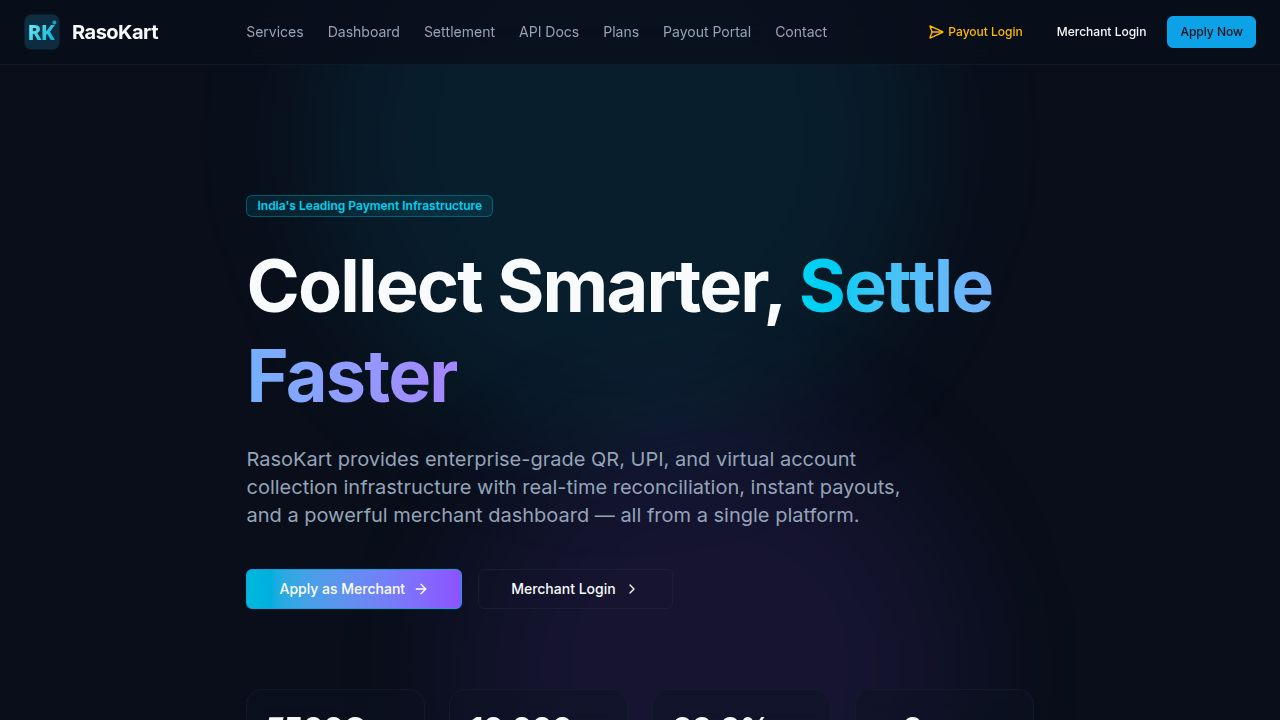
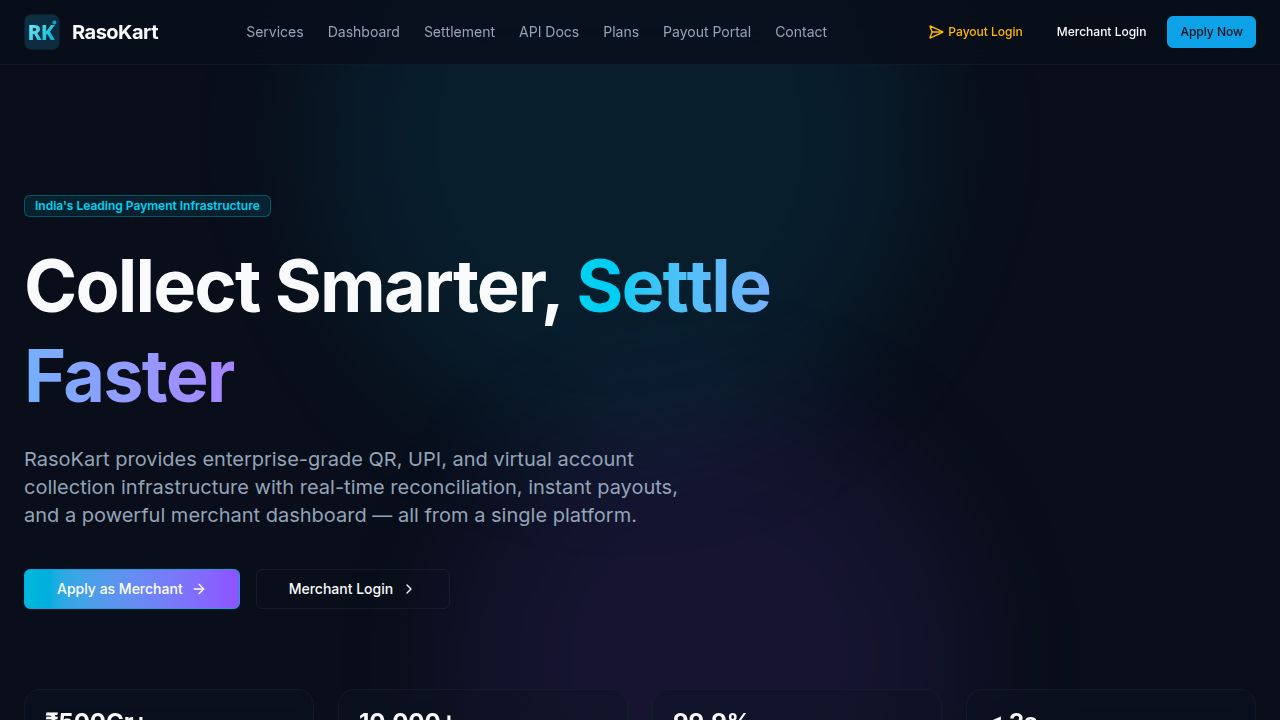
Add Min Amount, Max Amount, and Daily Limit inputs to the EkQR config panel
Task: Show EkQR and UPI Gateway amount limits on their config panels

## Changes

### artifacts/rpay/src/pages/admin/payment-gateways.tsx (EkqrConfigPanel)
- Added three new state variables: `ekqrMinAmount`, `ekqrMaxAmount`, `ekqrDailyLimit`
- Updated `unchanged` check to include the three new fields
- Updated `handleSave` to include minAmount/maxAmount/dailyLimit in the PUT body (as numbers)
- Updated the `onSuccess` reset to clear the three new fields
- Fixed success toast from generic "UPI Gateway settings saved" to "EkQR settings saved"
- Updated the Cancel button to also clear the three new fields
- Added an "Amount Limits" section with a 3-column grid (Min, Max, Daily Limit) between
  the Webhook Secret and Test Result sections — showing current configured value as placeholder

## No backend changes needed
- PUT /api/system-config/ekqr already accepts minAmount/maxAmount/dailyLimit
- GET /api/system-config/ekqr already returns all three fields
- Credential history dialog: SETTING_LABELS already covers these keys

## UPI Gateway panel — already implemented
- UpigatewayPayinPanel in the same file already had Min Amount and Max Amount inputs
  in the Advanced Settings section, wired to PUT — confirmed, no changes needed

Replit-Task-Id: f8b6f8dd-bf2f-4e77-bede-1b2366a91e36

## TypeScript typecheck: passes with zero errors

diff --git a/artifacts/rpay/src/pages/admin/payment-gateways.tsx b/artifacts/rpay/src/pages/admin/payment-gateways.tsx
@@ -326,6 +326,9 @@ function EkqrConfigPanel() {
   const [ekqrEnabled, setEkqrEnabled] = useState<boolean | null>(null);
   const [ekqrEnv, setEkqrEnv] = useState<"test" | "live" | null>(null);
   const [ekqrWebhookSecret, setEkqrWebhookSecret] = useState("");
+  const [ekqrMinAmount, setEkqrMinAmount] = useState("");
+  const [ekqrMaxAmount, setEkqrMaxAmount] = useState("");
+  const [ekqrDailyLimit, setEkqrDailyLimit] = useState("");
   const [showKey, setShowKey] = useState(false);
   const [showSecret, setShowSecret] = useState(false);
   const [testResult, setTestResult] = useState<{ ok: boolean; msg: string } | null>(null);
@@ -334,7 +337,8 @@ function EkqrConfigPanel() {
   const currentEnabled = ekqrEnabled !== null ? ekqrEnabled : (ekqrConfig?.enabled ?? false);
   const currentEnv: "test" | "live" = ekqrEnv !== null ? ekqrEnv : ((ekqrConfig as any)?.env ?? "test");
   const unchanged = ekqrApiKey === "" && ekqrWebhookSecret === ""
-    && ekqrEnabled === null && ekqrEnv === null;
+    && ekqrEnabled === null && ekqrEnv === null
+    && ekqrMinAmount === "" && ekqrMaxAmount === "" && ekqrDailyLimit === "";
 
   const { guardSave, dialog: disableGuardDialog } = useDisableGatewayGuard("ekqr", undefined, {
     apiKeySet: ekqrConfig?.apiKeySet,
@@ -344,9 +348,10 @@ function EkqrConfigPanel() {
   const { mutate: saveConfig, isPending: saving } = useUpdateEkqrConfig({
     mutation: {
       onSuccess: () => {
-        toast.success("UPI Gateway settings saved");
+        toast.success("EkQR settings saved");
         setEkqrApiKey(""); setEkqrWebhookSecret("");
         setEkqrEnabled(null); setEkqrEnv(null);
+        setEkqrMinAmount(""); setEkqrMaxAmount(""); setEkqrDailyLimit("");
         qc.invalidateQueries({ queryKey: getGetEkqrConfigQueryKey() });
       },
       onError: (err: Error) => toast.error(err.message),
@@ -383,6 +388,9 @@ function EkqrConfigPanel() {
     const body: Record<string, unknown> = { enabled: currentEnabled, env: currentEnv };
     if (ekqrApiKey.trim()) body.apiKey = ekqrApiKey.trim();
     if (ekqrWebhookSecret !== "") body.webhookSecret = ekqrWebhookSecret.trim();
+    if (ekqrMinAmount.trim()) body.minAmount = parseFloat(ekqrMinAmount);
+    if (ekqrMaxAmount.trim()) body.maxAmount = parseFloat(ekqrMaxAmount);
+    if (ekqrDailyLimit.trim()) body.dailyLimit = parseFloat(ekqrDailyLimit);
     const willDisable = computeWillDisable(ekqrConfig?.enabled ?? false, currentEnabled);
     guardSave(willDisable, () => saveConfig({ data: body as any }));
   }
@@ -532,6 +540,50 @@ function EkqrConfigPanel() {
         )}
       </div>
 
+      {/* Amount Limits */}
+      <div className="rounded-lg border border-border/40 overflow-hidden">
+        <div className="p-3 bg-muted/10">
+          <p className="text-xs font-medium text-muted-foreground uppercase tracking-wide">Amount Limits</p>
+        </div>
+        <div className="p-4 space-y-4">
+          <div className="grid grid-cols-1 sm:grid-cols-3 gap-4">
+            <div className="space-y-1.5">
+              <Label className="text-xs">Min Amount (₹)</Label>
+              <Input
+                type="number"
+                className="h-9 text-xs"
+                placeholder={String((ekqrConfig as any)?.minAmount ?? 1)}
+                value={ekqrMinAmount}
+                onChange={e => setEkqrMinAmount(e.target.value)}
+              />
+            </div>
+            <div className="space-y-1.5">
+              <Label className="text-xs">Max Amount (₹)</Label>
+              <Input
+                type="number"
+                className="h-9 text-xs"
+                placeholder={String((ekqrConfig as any)?.maxAmount ?? 200000)}
+                value={ekqrMaxAmount}
+                onChange={e => setEkqrMaxAmount(e.target.value)}
+              />
+            </div>
+            <div className="space-y-1.5">
+              <Label className="text-xs">Daily Limit (₹)</Label>
+              <Input
+                type="number"
+                className="h-9 text-xs"
+                placeholder={String((ekqrConfig as any)?.dailyLimit ?? 1000000)}
+                value={ekqrDailyLimit}
+                onChange={e => setEkqrDailyLimit(e.target.value)}
+              />
+            </div>
+          </div>
+          <p className="text-xs text-muted-foreground">
+            Controls the minimum and maximum transaction amounts and the total daily collection cap for this gateway.
+          </p>
+        </div>
+      </div>
+
       {/* Test result banners */}
       {testResult && (
         <div className={`flex items-center gap-2 text-xs px-3 py-2 rounded-md border ${
@@ -572,6 +624,7 @@ function EkqrConfigPanel() {
           <Button size="sm" variant="ghost" onClick={() => {
             setEkqrApiKey(""); setEkqrWebhookSecret("");
             setEkqrEnabled(null); setEkqrEnv(null);
+            setEkqrMinAmount(""); setEkqrMaxAmount(""); setEkqrDailyLimit("");
             setTestResult(null); setWebhookTestResult(null);
           }} disabled={saving}>
             Cancel